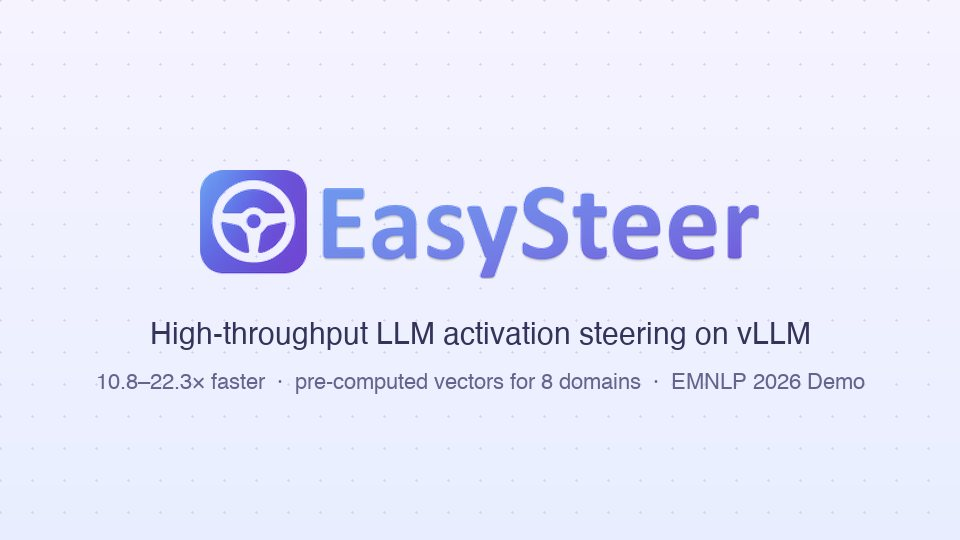
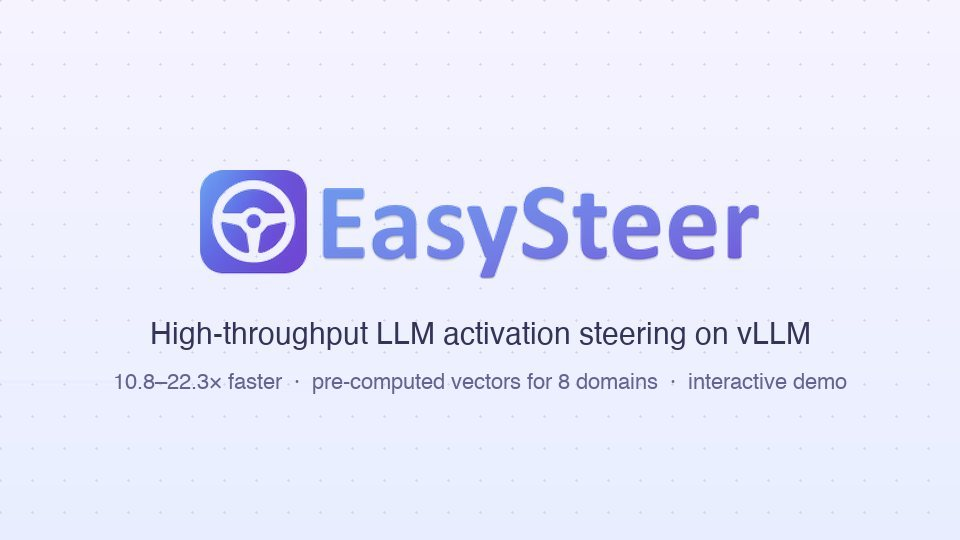
Remove publication venues from the profile

Changed region(s): [[0.0938, 0.6815, 0.9062, 0.7407]]

diff --git a/tools/figures.py b/tools/figures.py
@@ -220,7 +220,7 @@ def research_map(theme):
     ry = sp_bot + 26
     o.append(f'<rect x="{X0}" y="{ry}" width="{W - 2 * X0}" height="40" rx="12" fill="{t["panel"]}" stroke="{t["panel_line"]}" stroke-width="1.2"/>')
     o.append(f'<text x="{X0 + 18}" y="{ry + 26}" font-size="12.5" font-weight="700" letter-spacing="2" fill="{t["mute"]}">ROOTS</text>')
-    o.append(f'<text x="{X0 + 92}" y="{ry + 26}" font-size="15" fill="{t["soft"]}"><tspan font-weight="700" fill="{t["ink"]}">HuggingGPT</tspan> (NeurIPS ’23) and <tspan font-weight="700" fill="{t["ink"]}">TaskBench</tspan> (NeurIPS ’24): LLMs as controllers of models and tools, where our agent line began</text>')
+    o.append(f'<text x="{X0 + 92}" y="{ry + 26}" font-size="15" fill="{t["soft"]}"><tspan font-weight="700" fill="{t["ink"]}">HuggingGPT</tspan> and <tspan font-weight="700" fill="{t["ink"]}">TaskBench</tspan>: LLMs as controllers of models and tools, where our agent line began</text>')
     o.append('</svg>')
     return '\n'.join(o)
 

diff --git a/profile/README.md b/profile/README.md
@@ -22,7 +22,6 @@
 
 We study one question from four sides: **what does it take for AI to work in the real world?** A model first learns to **reason**, then to **perceive and model space**, then to **act** as an agent on screens, in software, and in the physical world, and finally to **keep growing** from the experience those actions produce. Each capability builds on the one before it, and a shared engine of agentic RL, self-distillation, and verifiable rewards runs through all of them.
 
-<p align="center"><sub><b>35+ papers in 2026</b> at ACL · EMNLP · ICML · ICLR · AAAI · CVPR · ECCV &nbsp;|&nbsp; <b>60+ open-source repositories</b></sub></p>
 
 ## Flagship open source
 
@@ -42,7 +41,7 @@ We study one question from four sides: **what does it take for AI to work in the
 <tr>
 <td width="50%" valign="top">
 <a href="https://github.com/microsoft/JARVIS"><img src="assets/covers/hugginggpt.jpg" alt="HuggingGPT" width="100%"></a>
-<b><a href="https://github.com/microsoft/JARVIS">HuggingGPT</a></b> <sub>NeurIPS 2023</sub> &nbsp; <img src="https://img.shields.io/github/stars/microsoft/JARVIS?style=social" alt="stars"><br>
+<b><a href="https://github.com/microsoft/JARVIS">HuggingGPT</a></b> &nbsp; <img src="https://img.shields.io/github/stars/microsoft/JARVIS?style=social" alt="stars"><br>
 <sub>An LLM as controller and the Hugging Face hub as executors: plan, pick expert models, run them, and compose the answer.</sub>
 </td>
 <td width="50%" valign="top">
@@ -66,7 +65,7 @@ We study one question from four sides: **what does it take for AI to work in the
 <tr>
 <td width="50%" valign="top">
 <a href="https://github.com/ZJU-REAL/EasySteer"><img src="assets/covers/easysteer.jpg" alt="EasySteer" width="100%"></a>
-<b><a href="https://github.com/ZJU-REAL/EasySteer">EasySteer</a></b> <sub>EMNLP 2026 Demo</sub> &nbsp; <img src="https://img.shields.io/github/stars/ZJU-REAL/EasySteer?style=social" alt="stars"><br>
+<b><a href="https://github.com/ZJU-REAL/EasySteer">EasySteer</a></b> &nbsp; <img src="https://img.shields.io/github/stars/ZJU-REAL/EasySteer?style=social" alt="stars"><br>
 <sub>High-throughput LLM activation steering on vLLM, 10.8–22.3× faster than prior frameworks.</sub>
 </td>
 <td width="50%" valign="top">
@@ -94,9 +93,9 @@ We study one question from four sides: **what does it take for AI to work in the
 
 | Step | Work | What it contributes |
 | :-- | :-- | :-- |
-| **Longer** | [InftyThink](https://github.com/ZJU-REAL/InftyThink) <sub>ICLR 2026</sub> → [InftyThink+](https://github.com/ZJU-REAL/InftyThink-Plus) <sub>ICML 2026</sub> | Interleaving reasoning with periodic summarization breaks the context-length ceiling; reinforcement learning then makes infinite-horizon reasoning effective and efficient. |
-| **Leaner** | [Self-Braking Tuning](https://github.com/ZJU-REAL/Self-Braking-Tuning) <sub>NeurIPS 2025</sub> · [LAPO](https://github.com/ZJU-REAL/LAPO) <sub>EMNLP 2026</sub> · [Mind the Gap](https://github.com/ZJU-REAL/Mind-the-Gap) <sub>NeurIPS 2025</sub> | Models learn to brake their own overthinking and fit reasoning length to difficulty, while bridged CoT data removes the thought leaps that make tuning brittle. |
-| **Verified** | [VerifyBench](https://github.com/ZJU-REAL/VerifyBench) <sub>ICLR 2026</sub> → [CoVerRL](https://github.com/ZJU-REAL/CoVerRL) <sub>ACL 2026</sub> · [Pause or Fabricate?](https://github.com/ZJU-REAL/GRIL) <sub>ACL 2026</sub> | Measure how reliable reward verifiers really are, then co-evolve generator and verifier so label-free training does not collapse into consensus, and teach models to stop instead of fabricate. |
+| **Longer** | [InftyThink](https://github.com/ZJU-REAL/InftyThink) → [InftyThink+](https://github.com/ZJU-REAL/InftyThink-Plus) | Interleaving reasoning with periodic summarization breaks the context-length ceiling; reinforcement learning then makes infinite-horizon reasoning effective and efficient. |
+| **Leaner** | [Self-Braking Tuning](https://github.com/ZJU-REAL/Self-Braking-Tuning) · [LAPO](https://github.com/ZJU-REAL/LAPO) · [Mind the Gap](https://github.com/ZJU-REAL/Mind-the-Gap) | Models learn to brake their own overthinking and fit reasoning length to difficulty, while bridged CoT data removes the thought leaps that make tuning brittle. |
+| **Verified** | [VerifyBench](https://github.com/ZJU-REAL/VerifyBench) → [CoVerRL](https://github.com/ZJU-REAL/CoVerRL) · [Pause or Fabricate?](https://github.com/ZJU-REAL/GRIL) | Measure how reliable reward verifiers really are, then co-evolve generator and verifier so label-free training does not collapse into consensus, and teach models to stop instead of fabricate. |
 
 **Hands up to the next layers:** verifiers and verifiable rewards become the training signal for spatial reasoning and agentic RL.
 
@@ -106,8 +105,8 @@ We study one question from four sides: **what does it take for AI to work in the
 
 | Step | Work | What it contributes |
 | :-- | :-- | :-- |
-| **Measure** | [ViewSpatial-Bench](https://github.com/ZJU-REAL/ViewSpatial-Bench) <sub>ECCV 2026</sub> | Multi-perspective localization exposes how poorly VLMs reason from viewpoints other than the camera's. |
-| **Teach** | [SpatialLadder](https://github.com/ZJU-REAL/SpatialLadder) <sub>ICLR 2026</sub> · [GPD](https://github.com/ZJU-REAL/GPD) | A progressive curriculum and distilled 3D privilege inject the spatial structure that 2D pretraining lacks. |
+| **Measure** | [ViewSpatial-Bench](https://github.com/ZJU-REAL/ViewSpatial-Bench) | Multi-perspective localization exposes how poorly VLMs reason from viewpoints other than the camera's. |
+| **Teach** | [SpatialLadder](https://github.com/ZJU-REAL/SpatialLadder) · [GPD](https://github.com/ZJU-REAL/GPD) | A progressive curriculum and distilled 3D privilege inject the spatial structure that 2D pretraining lacks. |
 | **Self-evolve** | [SpatialEvo](https://github.com/ZJU-REAL/SpatialEvo) · [Spatial-Interactor](https://arxiv.org/abs/2609.23038) | Deterministic geometric environments and interaction with the physical world generate their own supervision. |
 | **Predict** | [SpaceCast-Bench](https://github.com/ZJU-REAL/SpaceCast-Bench) · [WorldMemBench](https://github.com/ZJU-REAL/WorldMemBench) | From understanding the current scene to predictive spatial reasoning and the memory of video world models. |
 | **Act** | [OmniEmbodied](https://github.com/ZJU-REAL/OmniEmbodied) | Embodied agents reasoning over physical interaction, tool use, and multi-agent coordination. |
@@ -120,8 +119,8 @@ We study one question from four sides: **what does it take for AI to work in the
 
 | Step | Work | What it contributes |
 | :-- | :-- | :-- |
-| **Ground** | [GUI-G²](https://github.com/ZJU-REAL/GUI-G2) <sub>AAAI 2026</sub> → [GUI-RCPO](https://github.com/ZJU-REAL/GUI-RCPO) <sub>AAAI 2026</sub> · [Reliable Negatives](https://github.com/ZJU-REAL/CANL) <sub>ECCV 2026</sub> · [UI-Zoomer](https://github.com/ZJU-REAL/UI-Zoomer) | Gaussian rewards, test-time RL, confidence-anchored adaptation, and uncertainty-driven zoom make grounding precise, even without labels. |
-| **Act** | [UI-S1](https://github.com/X-PLUG/MobileAgent/tree/main/UI-S1) <sub>ACL 2026</sub> · [EMPO](https://aclanthology.org/2026.acl-long.428/) <sub>ACL 2026</sub> · [UI-Copilot](https://github.com/ZJU-REAL/UI-Copilot) <sub>ACL 2026</sub> | Semi-online and experience-driven multi-turn RL, plus tool-integrated policy optimization for long-horizon tasks. |
+| **Ground** | [GUI-G²](https://github.com/ZJU-REAL/GUI-G2) → [GUI-RCPO](https://github.com/ZJU-REAL/GUI-RCPO) · [Reliable Negatives](https://github.com/ZJU-REAL/CANL) · [UI-Zoomer](https://github.com/ZJU-REAL/UI-Zoomer) | Gaussian rewards, test-time RL, confidence-anchored adaptation, and uncertainty-driven zoom make grounding precise, even without labels. |
+| **Act** | [UI-S1](https://github.com/X-PLUG/MobileAgent/tree/main/UI-S1) · [EMPO](https://aclanthology.org/2026.acl-long.428/) · [UI-Copilot](https://github.com/ZJU-REAL/UI-Copilot) | Semi-online and experience-driven multi-turn RL, plus tool-integrated policy optimization for long-horizon tasks. |
 | **Beyond the GUI** | [HybridCUA](https://github.com/ZJU-REAL/HybridCUA) · [ComputerSD](https://github.com/ZJU-REAL/ComputerSD) · [Reflect, Revise, Reuse](https://arxiv.org/abs/2609.17653) | Orchestrate GUI and CLI together, self-distill online from real-time feedback, and evolve skills without retraining. |
 | **Evaluate & deploy** | [KnowU-Bench](https://github.com/ZJU-REAL/KnowU-Bench) → **[ClawGUI](https://github.com/ZJU-REAL/ClawGUI)** | Interactive, proactive, personalized evaluation, and one framework to train, evaluate, and deploy agents on real phones. |
 
@@ -131,8 +130,8 @@ We study one question from four sides: **what does it take for AI to work in the
 
 | Step | Work | What it contributes |
 | :-- | :-- | :-- |
-| **Search & synthesize** | [IterSynth](https://arxiv.org/abs/2609.29444) <sub>EMNLP 2026</sub> · [BrowserForge](https://arxiv.org/abs/2608.24848) · [EviNote-RAG](https://arxiv.org/abs/2509.00877) <sub>EMNLP 2026</sub> | Role-decoupled deep search, parallel browser sandboxes that scale web episodes, and evidence notes for faithful retrieval-augmented answers. |
-| **Build** | [Code-A1](https://github.com/ZJU-REAL/Code-A1) <sub>EMNLP 2026</sub> | A code LLM and a test LLM co-evolve adversarially through reinforcement learning. |
+| **Search & synthesize** | [IterSynth](https://arxiv.org/abs/2609.29444) · [BrowserForge](https://arxiv.org/abs/2608.24848) · [EviNote-RAG](https://arxiv.org/abs/2509.00877) | Role-decoupled deep search, parallel browser sandboxes that scale web episodes, and evidence notes for faithful retrieval-augmented answers. |
+| **Build** | [Code-A1](https://github.com/ZJU-REAL/Code-A1) | A code LLM and a test LLM co-evolve adversarially through reinforcement learning. |
 | **Plan & discover** | [PaperGym](https://github.com/ZJU-REAL/PaperGym) → **[Polaris](https://github.com/ZJU-REAL/Polaris)** | Rubric-centered research planning, then an autonomous platform that goes from literature to a reviewed paper. |
 | **Create & learn** | **[Easel](https://github.com/ZJU-REAL/Easel)** | A creator agent that discovers, plans, produces, publishes, and feeds performance back into its account profile. |
 
@@ -144,8 +143,8 @@ We study one question from four sides: **what does it take for AI to work in the
 
 | Step | Work | What it contributes |
 | :-- | :-- | :-- |
-| **Guide** | [Agent-G²](https://github.com/ZJU-REAL/Agent-G2) <sub>EMNLP 2026</sub> · [BEACON](https://github.com/ZJU-REAL/BEACON) <sub>ICML 2026</sub> | Gaussian guidance over hint depth and milestone-guided learning densify the sparse rewards of long-horizon agentic RL. |
-| **Internalize** | [SKILL0](https://github.com/ZJU-REAL/SkillZero) <sub>EMNLP 2026</sub> · [ViSkill](https://github.com/ZJU-REAL/ViSkill) · [SkillRise](https://arxiv.org/abs/2607.26784) | Skills discovered in context are internalized into the policy, made visual-native, and carried across tasks. |
+| **Guide** | [Agent-G²](https://github.com/ZJU-REAL/Agent-G2) · [BEACON](https://github.com/ZJU-REAL/BEACON) | Gaussian guidance over hint depth and milestone-guided learning densify the sparse rewards of long-horizon agentic RL. |
+| **Internalize** | [SKILL0](https://github.com/ZJU-REAL/SkillZero) · [ViSkill](https://github.com/ZJU-REAL/ViSkill) · [SkillRise](https://arxiv.org/abs/2607.26784) | Skills discovered in context are internalized into the policy, made visual-native, and carried across tasks. |
 | **Distill** | [SDAR](https://github.com/ZJU-REAL/SDAR) → [AgentOPSD](https://arxiv.org/abs/2608.05987) · [Pass the Baton](https://github.com/ZJU-REAL/Relay-OPD) · [RetireOPD](https://arxiv.org/abs/2609.20784) | The first open-source framework that unifies agentic RL with on-policy self-distillation, and the family of methods built on it. |
 | **Operate** | **[HugAgentOS](https://github.com/ZJU-REAL/HugAgentOS)** | Lifelong learning as a running system: memory, skills, and orchestration evolve with use, and each step can be attributed, replayed, and rolled back. |
 
@@ -157,8 +156,8 @@ One toolkit runs through all four layers, so a gain in one place compounds every
 - **Verifiable rewards:** VerifyBench, CoVerRL, GUI-G²
 - **Test-time learning:** [TTPO](https://github.com/ZJU-REAL/TTPO), GUI-RCPO
 - **Evaluation:** [ageval](https://github.com/ZJU-REAL/ageval), KnowU-Bench, ViewSpatial-Bench
-- **Steering:** [EasySteer](https://github.com/ZJU-REAL/EasySteer) <sub>EMNLP 2026 Demo</sub>
-- **Roots:** [HuggingGPT](https://github.com/microsoft/JARVIS) <sub>NeurIPS 2023</sub> and [TaskBench](https://github.com/microsoft/JARVIS/tree/main/taskbench) <sub>NeurIPS 2024</sub>, where our agent line began with LLMs as controllers of models and tools
+- **Steering:** [EasySteer](https://github.com/ZJU-REAL/EasySteer)
+- **Roots:** [HuggingGPT](https://github.com/microsoft/JARVIS) and [TaskBench](https://github.com/microsoft/JARVIS/tree/main/taskbench), where our agent line began with LLMs as controllers of models and tools
 
 ## Join us
 
